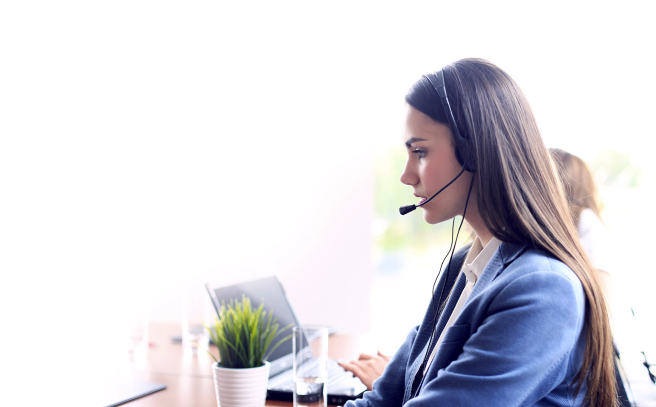
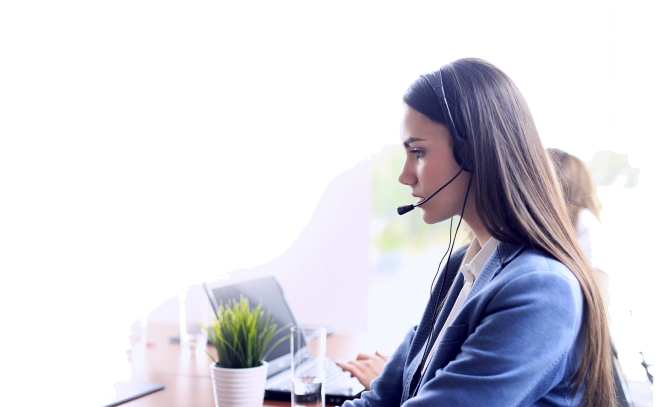
магазин Техники

Changed region(s): [[0.2744, 0.1474, 1.0, 1.0], [0.2134, 0.9435, 0.2744, 0.973], [0.1524, 0.973, 0.2134, 1.0]]

diff --git a/css/style.css b/css/style.css
@@ -1084,7 +1084,7 @@ button.acc__link {
 /* // Кнопки цветные Таба */
 
 
-/* ===== ШАПКА header ===== */
+/* ===== ШАПКА header-1920 ===== */
 .header {
   background-color: var(--color-white);
   box-shadow: 0 2px 10px rgba(0,0,0,0.05);
@@ -1894,7 +1894,7 @@ button.acc__link {
   border: 2px solid var(--color-doveGray);
 }
 /* -- // header__bottom -- */
-/* ===== // ШАПКА header ===== */
+/* ===== // ШАПКА header-1920 ===== */
 
 
 /* ===== hero-1920px ===== */
@@ -2244,7 +2244,7 @@ button.acc__link {
 /* ===== // partners-1920px ===== */
 
 
-/* ===== new-1920px ===== */
+/* ===== news-1920px ===== */
 .news {
   padding: 36px 0 20px;
 }
@@ -2424,7 +2424,7 @@ button.acc__link {
 /* ===== // review-1920px ===== */
 
 
-/* ===== portal-1920 ===== */
+/* ===== portal-1920px ===== */
 .portal {
   padding: 30px 0 28px;
 }
@@ -2944,7 +2944,6 @@ button.acc__link {
 }
 /* ===== // delivery-1920px ===== */
 
-
 /* ===== material-1920px ===== */
 .material {
   padding: 38px 0 19px;
@@ -3140,7 +3139,7 @@ button.acc__link {
 }
 /* ===== // material-1920px ===== */
 
-/* ===== performance ===== */
+/* ===== performance-1920px ===== */
 .performance {
   background-color: var(--color-lrv);
 }
@@ -3216,7 +3215,7 @@ button.acc__link {
 }
 
 .performance__pagination.swiper-pagination-bullets.swiper-pagination-horizontal {
-  top: -7px;
+  top: -10px;
   left: -.9px;
 }  
 
@@ -3247,27 +3246,43 @@ button.acc__link {
   font-size: clamp(8px, 3vw, 11px);
   line-height: 22px;
 }
-/* ===== // performance ===== */
+/* ===== // performance-1920px ===== */
 
-/* ===== support ===== */
+/* ===== support-1920px ===== */
 .support {
   background-color: var(--color-zircon);
 }
 
 .support__container {
-  padding-bottom: 9px;
-  background: url("../img/active-html/support.png") calc(100% - 0px) bottom no-repeat;
+  width: 959px;
+  background: url("../img/active-html/support.png") calc(100% - 42px) bottom no-repeat;
 }
 
 .support__nav {
   display: flex;
   flex-direction: column;
+  margin-left: -7px;
+  padding: 100px 0;
+  width: 347px;
 }
 
 .support__link {
-  background-color: var(--color-white);
+  padding: 18px 25px 20px 30px;
+  border-radius: 6px;
+  border: 1px solid var(--color-chost);
+  font-weight: 500;
+  font-size: clamp(12px, 1vw, 16px);
+  background: url("../img/arrow-next.png");
+  background-size: 15px;
+  background-repeat: no-repeat;
+  background-position: right 20px center;
+  background-color: var(--color-white);  
 }
-/* ===== // support ===== */
+
+.support__link:not(:last-child) {
+  margin-bottom: 21px; 
+}
+/* ===== // support-1920px ===== */
 
 
 /* ===== faq-1920px ===== */
@@ -3414,7 +3429,7 @@ button.acc__link {
 
 
 
-/* ===== Подвал footer-1920 ===== */
+/* ===== Подвал footer-1920px ===== */
 .footer {
   padding: 24px 0 17px;
   color: var(--color-white);
@@ -3718,7 +3733,7 @@ input::placeholder {
   font-weight: 500;
   font-size: clamp(10px, 1vw, 12px);
 }
-/* ===== // Подвал footer ===== */
+/* ===== // Подвал footer-1920px ===== */
 
 
 @media (max-width: 1424px) {
@@ -4815,7 +4830,7 @@ input::placeholder {
   }
 
   .performance__container {
-    padding-bottom: 61px;
+    padding-bottom: 62px;
     background: url("../img/active-html/intel-1024.jpg") calc(100% - 15px) top no-repeat;
   }
 
@@ -4851,6 +4866,30 @@ input::placeholder {
 
   .performance__pagination.swiper-pagination-bullets.swiper-pagination-horizontal {
     display: none;
+  }
+
+  .support__container {
+    width: 100%;
+    background: url("../img/active-html/support-768.png") calc(100% - 0px) bottom no-repeat;
+  }
+
+  .support__nav {
+    margin-left: 0;
+    padding: 62px 0 63px 56px;
+    width: 295px;
+  }
+
+  .support__link {
+    padding: 13px 25px 15px 16px;
+    background: url("../img/arrow-next.png");
+    background-size: 15px;
+    background-repeat: no-repeat;
+    background-position: right 20px center;
+    background-color: var(--color-white);  
+  }
+
+  .support__link:not(:last-child) {
+    margin-bottom: 14.7px; 
   }
 
 
@@ -5126,7 +5165,7 @@ input::placeholder {
   }
 
   .performance {
-    padding: 0 0 27px;
+    padding: 0 0 25px;
   }
 
   .performance__container {
@@ -5149,6 +5188,11 @@ input::placeholder {
 
   .performance__text span {
     line-height: 15px;
+  }
+
+  .support__nav {
+    padding: 62px 0 63px 10px;
+    width: 224px;
   }
 }
   
@@ -5984,6 +6028,20 @@ input::placeholder {
 
   .performance__text {
     width: 97%;
+  }
+
+
+  .support__container {
+    background: url("../img/active-html/support-375.png") calc(100% - 0px) bottom no-repeat;
+  }
+
+  .support__nav {
+    padding: 37px 0 124px 10px;
+    width: 254px;
+  }
+
+  .support__link:not(:last-child) {
+    margin-bottom: 12.7px;
   }
 
 
